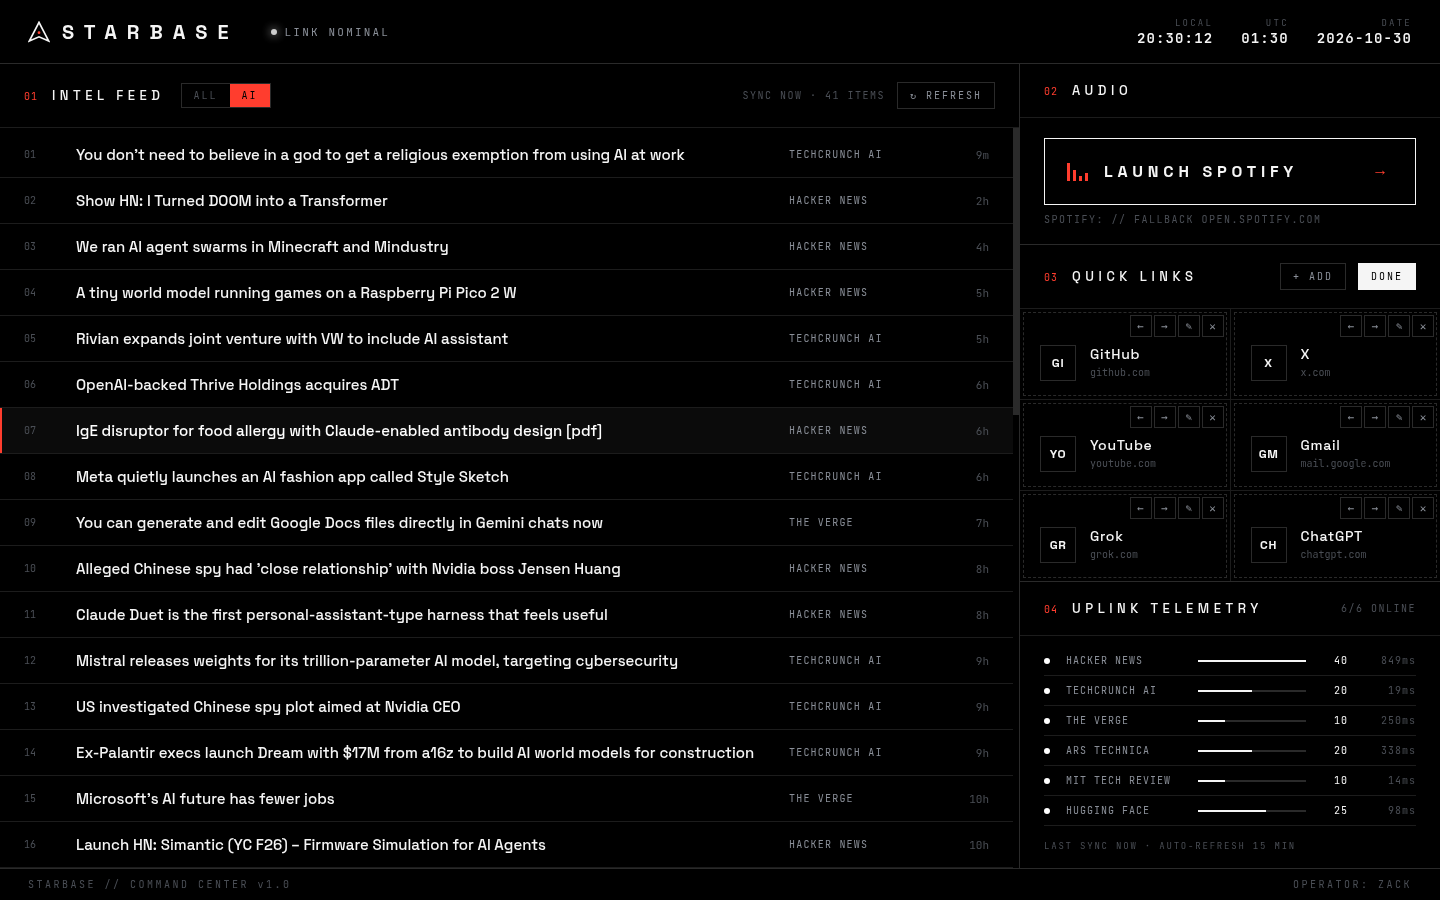
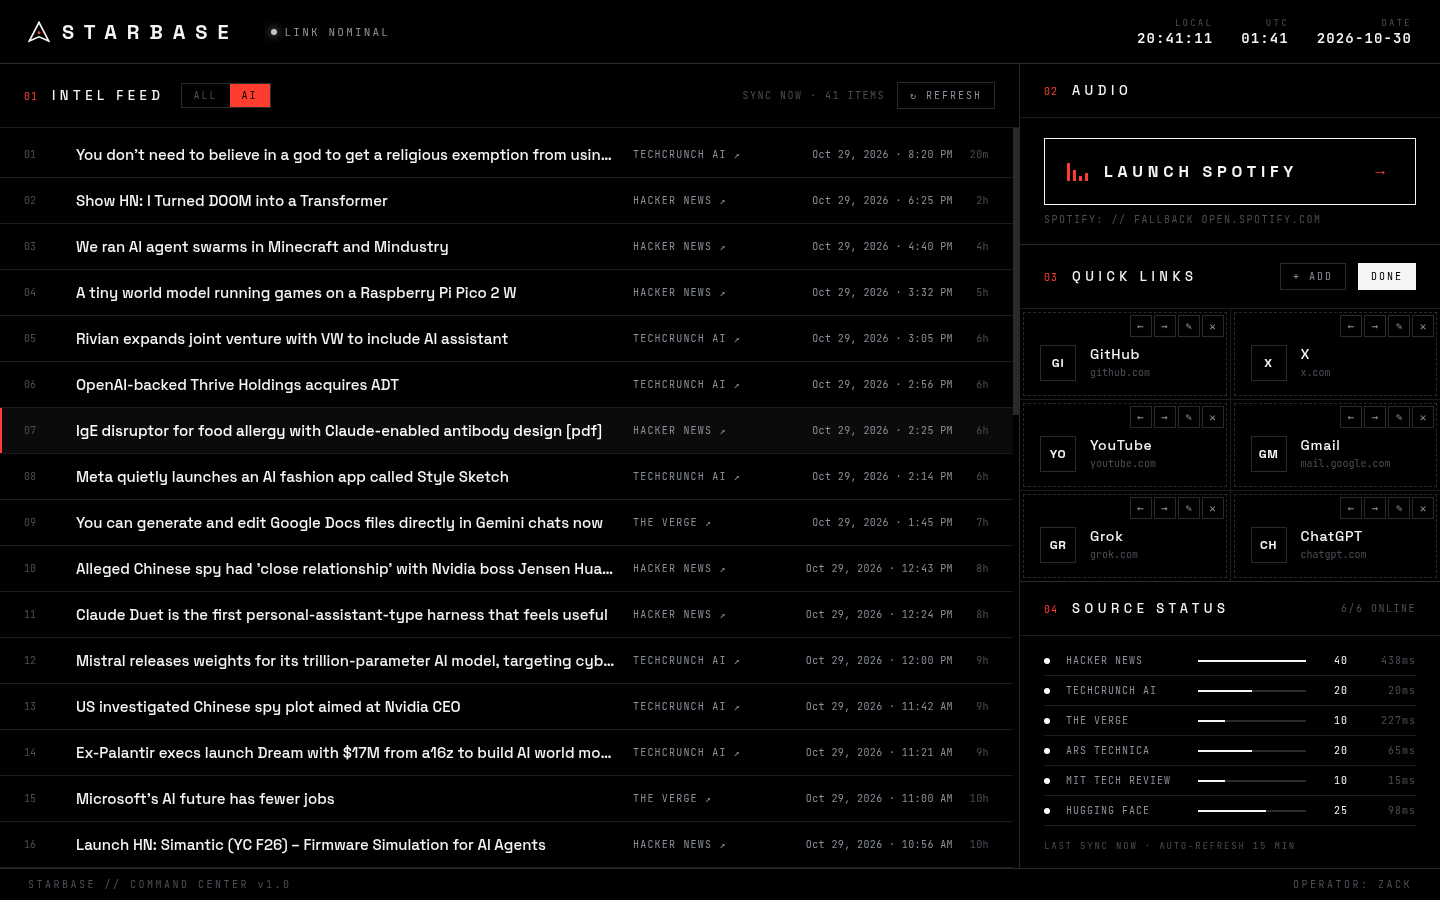
feat(v1 spec): publish dates + clickable source links, NSIS installer target, INSTALL guide, TESTING.md

diff --git a/src/shared/feeds.ts b/src/shared/feeds.ts
@@ -1,14 +1,14 @@
 import { XMLParser } from 'fast-xml-parser';
 import type { NewsItem } from './types';
 
-export interface FeedSource { name: string; url: string; kind: 'rss' | 'hn'; aiOnly?: boolean; }
+export interface FeedSource { name: string; url: string; kind: 'rss' | 'hn'; home: string; }
 export const FEEDS: FeedSource[] = [
-  { name: 'Hacker News', url: 'https://hacker-news.firebaseio.com/v0/topstories.json', kind: 'hn' },
-  { name: 'TechCrunch AI', url: 'https://techcrunch.com/category/artificial-intelligence/feed/', kind: 'rss' },
-  { name: 'The Verge', url: 'https://www.theverge.com/rss/ai-artificial-intelligence/index.xml', kind: 'rss' },
-  { name: 'Ars Technica', url: 'https://feeds.arstechnica.com/arstechnica/technology-lab', kind: 'rss' },
-  { name: 'MIT Tech Review', url: 'https://www.technologyreview.com/topic/artificial-intelligence/feed', kind: 'rss' },
-  { name: 'Hugging Face', url: 'https://huggingface.co/blog/feed.xml', kind: 'rss' },
+  { name: 'Hacker News', url: 'https://hacker-news.firebaseio.com/v0/topstories.json', kind: 'hn', home: 'https://news.ycombinator.com' },
+  { name: 'TechCrunch AI', url: 'https://techcrunch.com/category/artificial-intelligence/feed/', kind: 'rss', home: 'https://techcrunch.com/category/artificial-intelligence/' },
+  { name: 'The Verge', url: 'https://www.theverge.com/rss/ai-artificial-intelligence/index.xml', kind: 'rss', home: 'https://www.theverge.com/ai-artificial-intelligence' },
+  { name: 'Ars Technica', url: 'https://feeds.arstechnica.com/arstechnica/technology-lab', kind: 'rss', home: 'https://arstechnica.com' },
+  { name: 'MIT Tech Review', url: 'https://www.technologyreview.com/topic/artificial-intelligence/feed', kind: 'rss', home: 'https://www.technologyreview.com/topic/artificial-intelligence/' },
+  { name: 'Hugging Face', url: 'https://huggingface.co/blog/feed.xml', kind: 'rss', home: 'https://huggingface.co/blog' },
 ];
 
 const text = (v: unknown): string => {
@@ -29,9 +29,10 @@ export function decodeEntities(s: string): string {
   }
   return s.replace(/<[^>]+>/g, '').replace(/\s+/g, ' ').trim();
 }
+const origin = (u: string) => { try { return new URL(u).origin; } catch { return ''; } };
 const arr = <T>(v: T | T[] | undefined): T[] => (v == null ? [] : Array.isArray(v) ? v : [v]);
 
-export function parseFeed(xml: string, source: string): NewsItem[] {
+export function parseFeed(xml: string, source: string, sourceUrl = ''): NewsItem[] {
   const p = new XMLParser({ ignoreAttributes: false, attributeNamePrefix: '@_' });
   const doc = p.parse(xml);
   const out: NewsItem[] = [];
@@ -40,7 +41,7 @@ export function parseFeed(xml: string, source: string): NewsItem[] {
     const url = text(it.link) || text(it.guid);
     const title = decodeEntities(text(it.title));
     const d = Date.parse(text(it.pubDate) || text(it['dc:date']));
-    if (title && url) out.push({ id: url, title, url, source, published: isNaN(d) ? Date.now() : d });
+    if (title && url) out.push({ id: url, title, url, source, sourceUrl: sourceUrl || origin(url), published: isNaN(d) ? Date.now() : d });
   }
   for (const e of arr(doc?.feed?.entry)) {
     const links = arr<any>(e.link);
@@ -48,7 +49,7 @@ export function parseFeed(xml: string, source: string): NewsItem[] {
     const url = alt ? text(alt['@_href'] ?? alt) : '';
     const title = decodeEntities(text(e.title));
     const d = Date.parse(text(e.published) || text(e.updated));
-    if (title && url) out.push({ id: url, title, url, source, published: isNaN(d) ? Date.now() : d });
+    if (title && url) out.push({ id: url, title, url, source, sourceUrl: sourceUrl || origin(url), published: isNaN(d) ? Date.now() : d });
   }
   return out;
 }

diff --git a/tests/shared.test.ts b/tests/shared.test.ts
@@ -1,6 +1,6 @@
 import { describe, it, expect } from 'vitest';
 import { parseFeed, mergeItems } from '../src/shared/feeds';
-import { isAllowedExternal, normalizeUrl, relativeTime, isAiRelated } from '../src/shared/util';
+import { formatDate, isAllowedExternal, normalizeUrl, relativeTime, isAiRelated } from '../src/shared/util';
 import { sanitizeLinks, DEFAULT_LINKS } from '../src/shared/links';
 
 const RSS = `<?xml version="1.0"?><rss><channel><item><title>New LLM released</title><link>https://a.com/1</link><pubDate>Thu, 29 Oct 2026 10:00:00 GMT</pubDate></item><item><title>Second</title><link>https://a.com/2</link></item></channel></rss>`;
@@ -10,7 +10,8 @@ describe('feeds', () => {
   it('parses RSS', () => {
     const items = parseFeed(RSS, 'A');
     expect(items).toHaveLength(2);
-    expect(items[0]).toMatchObject({ title: 'New LLM released', url: 'https://a.com/1', source: 'A' });
+    expect(items[0]).toMatchObject({ title: 'New LLM released', url: 'https://a.com/1', source: 'A', sourceUrl: 'https://a.com' });
+    expect(parseFeed(RSS, 'A', 'https://home.a')[0].sourceUrl).toBe('https://home.a');
     expect(items[0].published).toBe(Date.parse('2026-10-29T10:00:00Z'));
   });
   it('parses Atom', () => {
@@ -18,8 +19,8 @@ describe('feeds', () => {
   });
   it('returns [] for garbage', () => expect(parseFeed('<html>nope</html>', 'x')).toEqual([]));
   it('merges, dedupes and sorts newest first', () => {
-    const m = mergeItems([[{ id: '1', title: 'a', url: 'https://x/1?utm=1', source: 's', published: 1 }],
-      [{ id: '2', title: 'b', url: 'https://x/1', source: 's', published: 5 }, { id: '3', title: 'c', url: 'https://x/3', source: 's', published: 9 }]]);
+    const m = mergeItems([[{ id: '1', title: 'a', url: 'https://x/1?utm=1', source: 's', sourceUrl: '', published: 1 }],
+      [{ id: '2', title: 'b', url: 'https://x/1', source: 's', sourceUrl: '', published: 5 }, { id: '3', title: 'c', url: 'https://x/3', source: 's', sourceUrl: '', published: 9 }]]);
     expect(m.map((i) => i.id)).toEqual(['3', '1']);
   });
 });
@@ -58,5 +59,11 @@ import { decodeEntities } from '../src/shared/feeds';
 describe('entities', () => {
   it('decodes numeric, named and double-escaped entities', () => {
     expect(decodeEntities('You don&#8217;t &amp; it&amp;#8217;s <b>bold</b>')).toBe('You don’t & it’s bold');
+  });
+});
+
+describe('formatDate', () => {
+  it('formats as "Mon D, YYYY · h:mm AM/PM"', () => {
+    expect(formatDate(new Date(2026, 9, 29, 19, 42).getTime())).toBe('Oct 29, 2026 · 7:42 PM');
   });
 });

diff --git a/src/renderer/src/NewsFeed.tsx b/src/renderer/src/NewsFeed.tsx
@@ -1,6 +1,6 @@
 import { useCallback, useEffect, useMemo, useState } from 'react';
 import type { FeedResult } from '../../shared/types';
-import { relativeTime, isAiRelated } from '../../shared/util';
+import { relativeTime, isAiRelated, formatDate } from '../../shared/util';
 
 const REFRESH_MS = 15 * 60 * 1000;
 
@@ -45,12 +45,12 @@ export function NewsFeed() {
         {!data && loading && Array.from({ length: 10 }).map((_, i) => <li key={i} className="skeleton"><span /></li>)}
         {items.map((it, i) => (
           <li key={it.id} style={{ animationDelay: `${Math.min(i, 30) * 18}ms` }}>
-            <button className="item" onClick={() => window.starbase.openExternal(it.url)} title={it.url}>
+            <div className="item">
               <span className="n">{String(i + 1).padStart(2, '0')}</span>
-              <span className="t">{it.title}</span>
-              <span className="src">{it.source}</span>
-              <span className="time">{relativeTime(it.published)}</span>
-            </button>
+              <a className="t" href={it.url} title={it.url} onClick={(e) => { e.preventDefault(); void window.starbase.openExternal(it.url); }}>{it.title}</a>
+              <a className="src" href={it.sourceUrl} title={`Open ${it.source}: ${it.sourceUrl}`} onClick={(e) => { e.preventDefault(); void window.starbase.openExternal(it.sourceUrl); }}>{it.source} ↗</a>
+              <time className="time" dateTime={new Date(it.published).toISOString()}>{formatDate(it.published)}<em>{relativeTime(it.published)}</em></time>
+            </div>
           </li>
         ))}
       </ol>

diff --git a/src/main/index.ts b/src/main/index.ts
@@ -24,7 +24,7 @@ async function fetchHN(src: FeedSource): Promise<NewsItem[]> {
     try { return JSON.parse(await fetchText(`https://hacker-news.firebaseio.com/v0/item/${id}.json`, 8000)); } catch { return null; }
   }));
   return items.filter((i) => i && i.title).map((i) => ({
-    id: `hn-${i.id}`, title: i.title, source: 'Hacker News', published: i.time * 1000,
+    id: `hn-${i.id}`, title: i.title, source: 'Hacker News', sourceUrl: `https://news.ycombinator.com/item?id=${i.id}`, published: i.time * 1000,
     url: i.url || `https://news.ycombinator.com/item?id=${i.id}`,
   }));
 }
@@ -36,7 +36,7 @@ async function getNews(): Promise<FeedResult> {
   const results = await Promise.all(FEEDS.map(async (f) => {
     const t0 = Date.now();
     try {
-      const items = f.kind === 'hn' ? await fetchHN(f) : parseFeed(await fetchText(f.url), f.name).sort((a, b) => b.published - a.published).slice(0, 25);
+      const items = f.kind === 'hn' ? await fetchHN(f) : parseFeed(await fetchText(f.url), f.name, f.home).sort((a, b) => b.published - a.published).slice(0, 25);
       sources.push({ name: f.name, ok: true, count: items.length, ms: Date.now() - t0 }); return items;
     } catch (e) {
       const error = (e as Error).message || String(e);

diff --git a/src/renderer/src/styles.css b/src/renderer/src/styles.css
@@ -96,3 +96,9 @@ button { font: inherit; color: inherit; background: none; border: 0; cursor: poi
 .telemetry .ct { color: var(--fg); text-align: right; } .telemetry .ms { color: var(--dim); text-align: right; }
 .telemetry .next { padding: 4px 24px 16px; color: var(--dim); font-size: 9px; letter-spacing: .2em; }
 .tile.editing { padding-top: 36px; }
+.item { grid-template-columns: 36px minmax(0, 1fr) 150px 190px; cursor: default; }
+.item a { text-decoration: none; cursor: pointer; }
+.item .t:hover { text-decoration: underline; text-decoration-color: var(--accent); text-underline-offset: 4px; }
+.item .src:hover { color: var(--accent); }
+.item .time { display: flex; justify-content: flex-end; gap: 10px; color: var(--muted); font-size: 10px; letter-spacing: .04em; white-space: nowrap; }
+.item .time em { font-style: normal; color: var(--dim); min-width: 26px; text-align: right; }

diff --git a/src/shared/util.ts b/src/shared/util.ts
@@ -14,5 +14,11 @@ export function relativeTime(ts: number, now = Date.now()): string {
   const h = Math.round(m / 60); if (h < 24) return `${h}h`;
   return `${Math.round(h / 24)}d`;
 }
+export function formatDate(ts: number, locale?: string): string {
+  const d = new Date(ts);
+  const date = d.toLocaleDateString(locale ?? 'en-US', { month: 'short', day: 'numeric', year: 'numeric' });
+  const time = d.toLocaleTimeString(locale ?? 'en-US', { hour: 'numeric', minute: '2-digit' });
+  return `${date} · ${time}`;
+}
 const AI_RE = /\b(ai|a\.i\.|llm|gpt|openai|anthropic|claude|gemini|grok|xai|llama|mistral|neural|machine learning|deep learning|model|agent|nvidia|gpu|transformer|diffusion|chatbot|robot)/i;
 export const isAiRelated = (t: string) => AI_RE.test(t);

diff --git a/src/shared/types.ts b/src/shared/types.ts
@@ -1,4 +1,4 @@
-export interface NewsItem { id: string; title: string; url: string; source: string; published: number; }
+export interface NewsItem { id: string; title: string; url: string; source: string; sourceUrl: string; published: number; }
 export interface FeedResult { items: NewsItem[]; errors: { source: string; error: string }[]; fetchedAt: number; offline: boolean; sources: SourceStatus[]; }
 export interface SourceStatus { name: string; ok: boolean; count: number; ms: number; error?: string; }
 export interface QuickLink { id: string; name: string; url: string; }

diff --git a/src/renderer/src/Telemetry.tsx b/src/renderer/src/Telemetry.tsx
@@ -12,7 +12,7 @@ export function Telemetry() {
   const max = Math.max(1, ...(d?.sources.map((s) => s.count) ?? [1]));
   return (
     <section className="panel telemetry">
-      <div className="panel-head"><h2><span className="idx">04</span>UPLINK TELEMETRY</h2>
+      <div className="panel-head"><h2><span className="idx">04</span>SOURCE STATUS</h2>
         <div className="meta">{d ? `${up}/${d.sources.length} ONLINE` : 'ACQUIRING…'}</div></div>
       <ul>
         {d?.sources.map((s) => (

diff --git a/README.md b/README.md
@@ -25,10 +25,10 @@ It's a single portable `.exe`, so there's no installer and no account to make. I
 
 | # | System | What it does |
 |---|--------|--------------|
-| 01 | **Intel Feed** | Merges AI and tech news from Hacker News (official Firebase API), TechCrunch AI, The Verge AI, Ars Technica, MIT Technology Review and the Hugging Face blog. Drops duplicates and sorts newest first. Each row shows title, source and relative time. An **ALL / AI** toggle filters the list to AI topics. Click a headline to open it in your default browser. |
+| 01 | **Intel Feed** | Merges AI and tech news from Hacker News (official Firebase API), TechCrunch AI, The Verge AI, Ars Technica, MIT Technology Review and the Hugging Face blog. Drops duplicates and sorts newest first. Each row shows the title (click it to open the article), the source name (click it to open that publication's site, or the HN discussion for Hacker News items), and the publish date in local time, like `Oct 29, 2026 · 7:42 PM`, with a relative age next to it. An **ALL / AI** toggle filters the list to AI topics.  Every link opens in your default browser. |
 | 02 | **Audio** | A large **LAUNCH SPOTIFY** button. It hands off to the Spotify desktop app through the `spotify:` URI. If that fails, it opens https://open.spotify.com. |
 | 03 | **Quick Links** | A tile grid for the sites you use most. Defaults are GitHub, X, YouTube, Gmail, Grok and ChatGPT. Under **EDIT** you can add, rename, re-point, reorder (drag or ← →) and delete tiles. Everything persists locally. |
-| 04 | **Uplink Telemetry** | Shows live status for each feed: online/error, item count and latency, so you can see which source is down. |
+| 04 | **Source Status** | Shows live status for each feed: online/error, item count and latency, so you can see which source is down. |
 | ⏱ | **Clocks** | Local time, UTC and an ISO date. |
 | ↻ | **Refresh** | Manual refresh plus auto-refresh every 15 minutes. Feeds fail independently, and if the whole network is out you get an *OFFLINE* banner with cached headlines. The app doesn't crash. |
 
@@ -63,24 +63,48 @@ T-0  🔥
 | `npm test` | Vitest unit tests (feed parsing, entity decoding, URL allow-list, link sanitizing) |
 | `npm run typecheck` | Strict TypeScript across renderer, main and preload |
 | `npm run icons` | Regenerate `build/icon.png` + `build/icon.ico` from `build/icon.svg` |
-| `npm run dist:win` | Build the Windows x64 portable `release/STARBASE.exe` |
+| `npm run dist:win` | Build the Windows x64 installer + portable exe into `release/` |
 
 > **Linux note:** if `node_modules/electron/dist` is missing after install (newer npm versions can hold back install scripts), run `node node_modules/electron/install.js`.
+
+## 🧑🚀 INSTALL — Boarding Procedure (Windows 11)
+
+**1. Get the binaries.** Open [Releases](https://github.com/Zanick777/STARBASE/releases/latest) and download one of these:
+
+| File | Pick it if… |
+|------|-------------|
+| `STARBASE-Setup.exe` | You want a normal installed app: Start Menu + desktop shortcut, a listing in *Installed apps*, and a clean uninstall. The installer asks where to install (default is per-user, no admin needed). |
+| `STARBASE.exe` | You want **portable**: no install, nothing in Start Menu. Put it anywhere (Desktop, a USB stick) and double-click. The first launch takes a few seconds while it unpacks to a temp folder. |
+
+**2. Clear SmartScreen.** The binaries aren't code-signed, so Windows will show *"Windows protected your PC"*.
+Click **More info → Run anyway**. You only need to do this once per downloaded file. If Edge blocks the download itself, open the download menu (**…**), choose **Keep**, then **Show more → Keep anyway**.
+
+**3. Liftoff.** Launch STARBASE. Headlines load within seconds when you're online.
+
+**Where your settings live:** `%APPDATA%\STARBASE\quicklinks.json`. That folder is shared by the installer and portable builds, so switching between them keeps your tiles.
+
+**Uninstall:**
+- *Installer build:* go to **Settings → Apps → Installed apps → STARBASE → ⋯ → Uninstall**, or use *Uninstall STARBASE* in the Start Menu.
+- *Portable build:* delete `STARBASE.exe`.
+- Either way, your settings are kept on purpose. For a full wipe, also delete `%APPDATA%\STARBASE`.
+
+**No accounts, no cloud.** STARBASE has no login, telemetry, analytics, auto-updater or backend. Its only network traffic is HTTPS GETs to the public news feeds listed above, plus whatever links you click, which open in your browser.
 
 ## 🏗 Stage Separation (building the Windows .exe)
 
 ### Locally (Windows, macOS or Linux)
 ```bash
 npm run dist:win
-# → release/STARBASE.exe  (portable, x64, no installer)
+# → release/STARBASE-Setup.exe  (NSIS installer, x64)
+# → release/STARBASE.exe        (portable, x64)
 ```
-This also works on Linux, and Wine isn't needed. electron-builder runs NSIS and edits the exe resources natively.
+On Windows this needs nothing extra. On Linux or macOS the **portable** target builds natively (`npx electron-builder --win portable --x64`), but the **NSIS installer** needs Wine, because electron-builder runs it to generate the uninstaller. If you don't have Wine, let CI build it.
 The binary is **unsigned**, so the first time you run it Windows SmartScreen will warn you. Click *More info → Run anyway*.
 
 ### Via GitHub Actions
 `.github/workflows/build-windows.yml` runs on `windows-latest` for every push to `main`, every `v*` tag, and manual dispatch.
-It typechecks, tests, builds and uploads `STARBASE.exe` as the **STARBASE-windows-x64** artifact.
-When you push a tag, it also attaches the exe to a GitHub Release:
+It typechecks, tests, builds and uploads `STARBASE-Setup.exe` and `STARBASE.exe` as the **STARBASE-windows-x64** artifact.
+When you push a tag, it also attaches both exes to a GitHub Release:
 ```bash
 git tag v1.0.0 && git push origin v1.0.0
 ```
@@ -102,14 +126,15 @@ Delete the file to go back to the default tiles. News isn't written to disk. The
 src/main/       Electron main: window, IPC, feed fetching, link storage
 src/preload/    contextBridge → window.starbase (5 methods)
 src/shared/     Pure, tested logic: feed parsing, URL rules, link sanitizing
-src/renderer/   React UI (NewsFeed, QuickLinks, SpotifyLauncher, Telemetry)
+src/renderer/   React UI (NewsFeed, QuickLinks, SpotifyLauncher, Telemetry = source status)
+docs/           Screenshots + TESTING.md (what's verified where)
 build/          App icon (svg / png / ico)
 tests/          Vitest suite
 ```
 
 ## 📡 Mission Log
 
-- [x] **v1.0 — First light.** News feed, quick links, Spotify launcher, telemetry, portable Windows build, CI.
+- [x] **v1.0 — First light.** News feed with publish dates and source links, editable quick links, Spotify launcher, source status, Windows installer + portable build, CI.
 - [ ] Configurable feed list (add your own RSS from inside the app)
 - [ ] Global hotkey to summon STARBASE
 - [ ] Favicons on quick-link tiles (cached locally)
@@ -117,6 +142,7 @@ tests/          Vitest suite
 - [ ] Homelab panel: ping and health-check your own servers
 
 ## Known limitations
+- Windows verification status is tracked in [docs/TESTING.md](docs/TESTING.md).
 - The exe is unsigned, so SmartScreen will warn on first run.
 - On Windows, `spotify:` reports success whenever *any* handler is registered. The web fallback only kicks in when the OS rejects the URI.
 - Feed URLs are public and could change. If one breaks, Telemetry flags it and the other sources keep working.

diff --git a/docs/TESTING.md b/docs/TESTING.md
@@ -1,0 +1,58 @@
+# STARBASE v1 — Test Status
+
+This file is honest about what has and hasn't been tested. **No one has run STARBASE by hand on a Windows 11 desktop yet.**
+On Windows, only the automated CI build has run.
+
+## ✅ Verified on Linux (Debian, Electron 45 under Xvfb)
+
+| Item | How |
+|------|-----|
+| Unit tests: RSS/Atom parsing, HTML-entity decoding, dedupe and sort, publish-date format (`Oct 29, 2026 · 7:42 PM`), URL allow-list (`http`/`https`/`spotify` only), link sanitizing | `npm test` (Vitest) |
+| Strict typecheck (renderer + main + preload) | `npm run typecheck` |
+| Production build | `npm run build` |
+| App launches, window renders with the intended design | Xvfb run; screenshots in `docs/` |
+| News loads live from all 6 sources (6/6 online), ~80 items, with publish dates and source links rendered | Xvfb run + screenshot |
+| ALL / AI filter switches the list | Scripted click + screenshot |
+| Quick-links edit mode renders (add / move / edit / delete controls) | Scripted click + screenshot |
+| Portable `STARBASE.exe` (x64) builds from Linux | `electron-builder --win portable --x64` |
+
+## ✅ Verified on Windows — CI only (`windows-latest`)
+
+| Item | How |
+|------|-----|
+| `npm ci`, typecheck, unit tests pass on Windows | GitHub Actions `build-windows` |
+| `STARBASE-Setup.exe` (NSIS) and `STARBASE.exe` (portable) build for x64 | GitHub Actions artifacts / release assets |
+
+CI only proves that the tests pass and the binaries build. It doesn't launch the GUI.
+
+## ⏳ Needs manual testing on Windows 11
+
+**Install**
+- [ ] Download `STARBASE-Setup.exe` from Releases. SmartScreen shows *More info → Run anyway* and the install completes.
+- [ ] The installer lets you pick a folder and creates Start Menu and desktop shortcuts, both using the STARBASE icon.
+- [ ] The portable `STARBASE.exe` launches from Downloads and from the Desktop.
+- [ ] The taskbar and window icon show the STARBASE logo, not the default Electron icon.
+
+**News**
+- [ ] Headlines load within ~15 s of launch, and Source Status shows 6/6 online.
+- [ ] Each row shows a local-time publish date (check it matches your Windows clock and time zone).
+- [ ] Clicking a title opens the article in the default browser.
+- [ ] Clicking a source name opens that publication's site (for Hacker News, the HN discussion page).
+- [ ] **REFRESH** works. Leave the app open for 15+ minutes and confirm the "SYNC" age resets.
+- [ ] Turn Wi-Fi off and press REFRESH. You should see the OFFLINE banner, cached headlines stay, and the app doesn't crash. Turn Wi-Fi back on and refresh to recover.
+
+**Quick links**
+- [ ] Each default tile opens the right site.
+- [ ] EDIT → add a tile (e.g. `news.ycombinator.com`; `https://` is added automatically). Rename one, reorder with drag and with ← →, and delete one.
+- [ ] Close and relaunch STARBASE. The changes persist (`%APPDATA%\STARBASE\quicklinks.json` exists).
+- [ ] Bad input (empty name, `ftp://x`) shows an error and nothing is saved.
+
+**Spotify**
+- [ ] With the Spotify desktop app installed (including the Microsoft Store version), LAUNCH SPOTIFY opens or focuses the app.
+- [ ] Without Spotify installed, the button opens https://open.spotify.com in the browser. *This is the most likely edge case: Windows may show a "Get an app to open this link" dialog instead of raising an error, in which case the fallback won't fire.*
+
+**Uninstall**
+- [ ] Settings → Apps → STARBASE → Uninstall removes the app and its shortcuts. `%APPDATA%\STARBASE` is kept, as intended.
+
+**Display**
+- [ ] The layout looks right at 100%, 125% and 150% scaling and on a 1080p or larger monitor. The window can't be shrunk below 1000×640.
